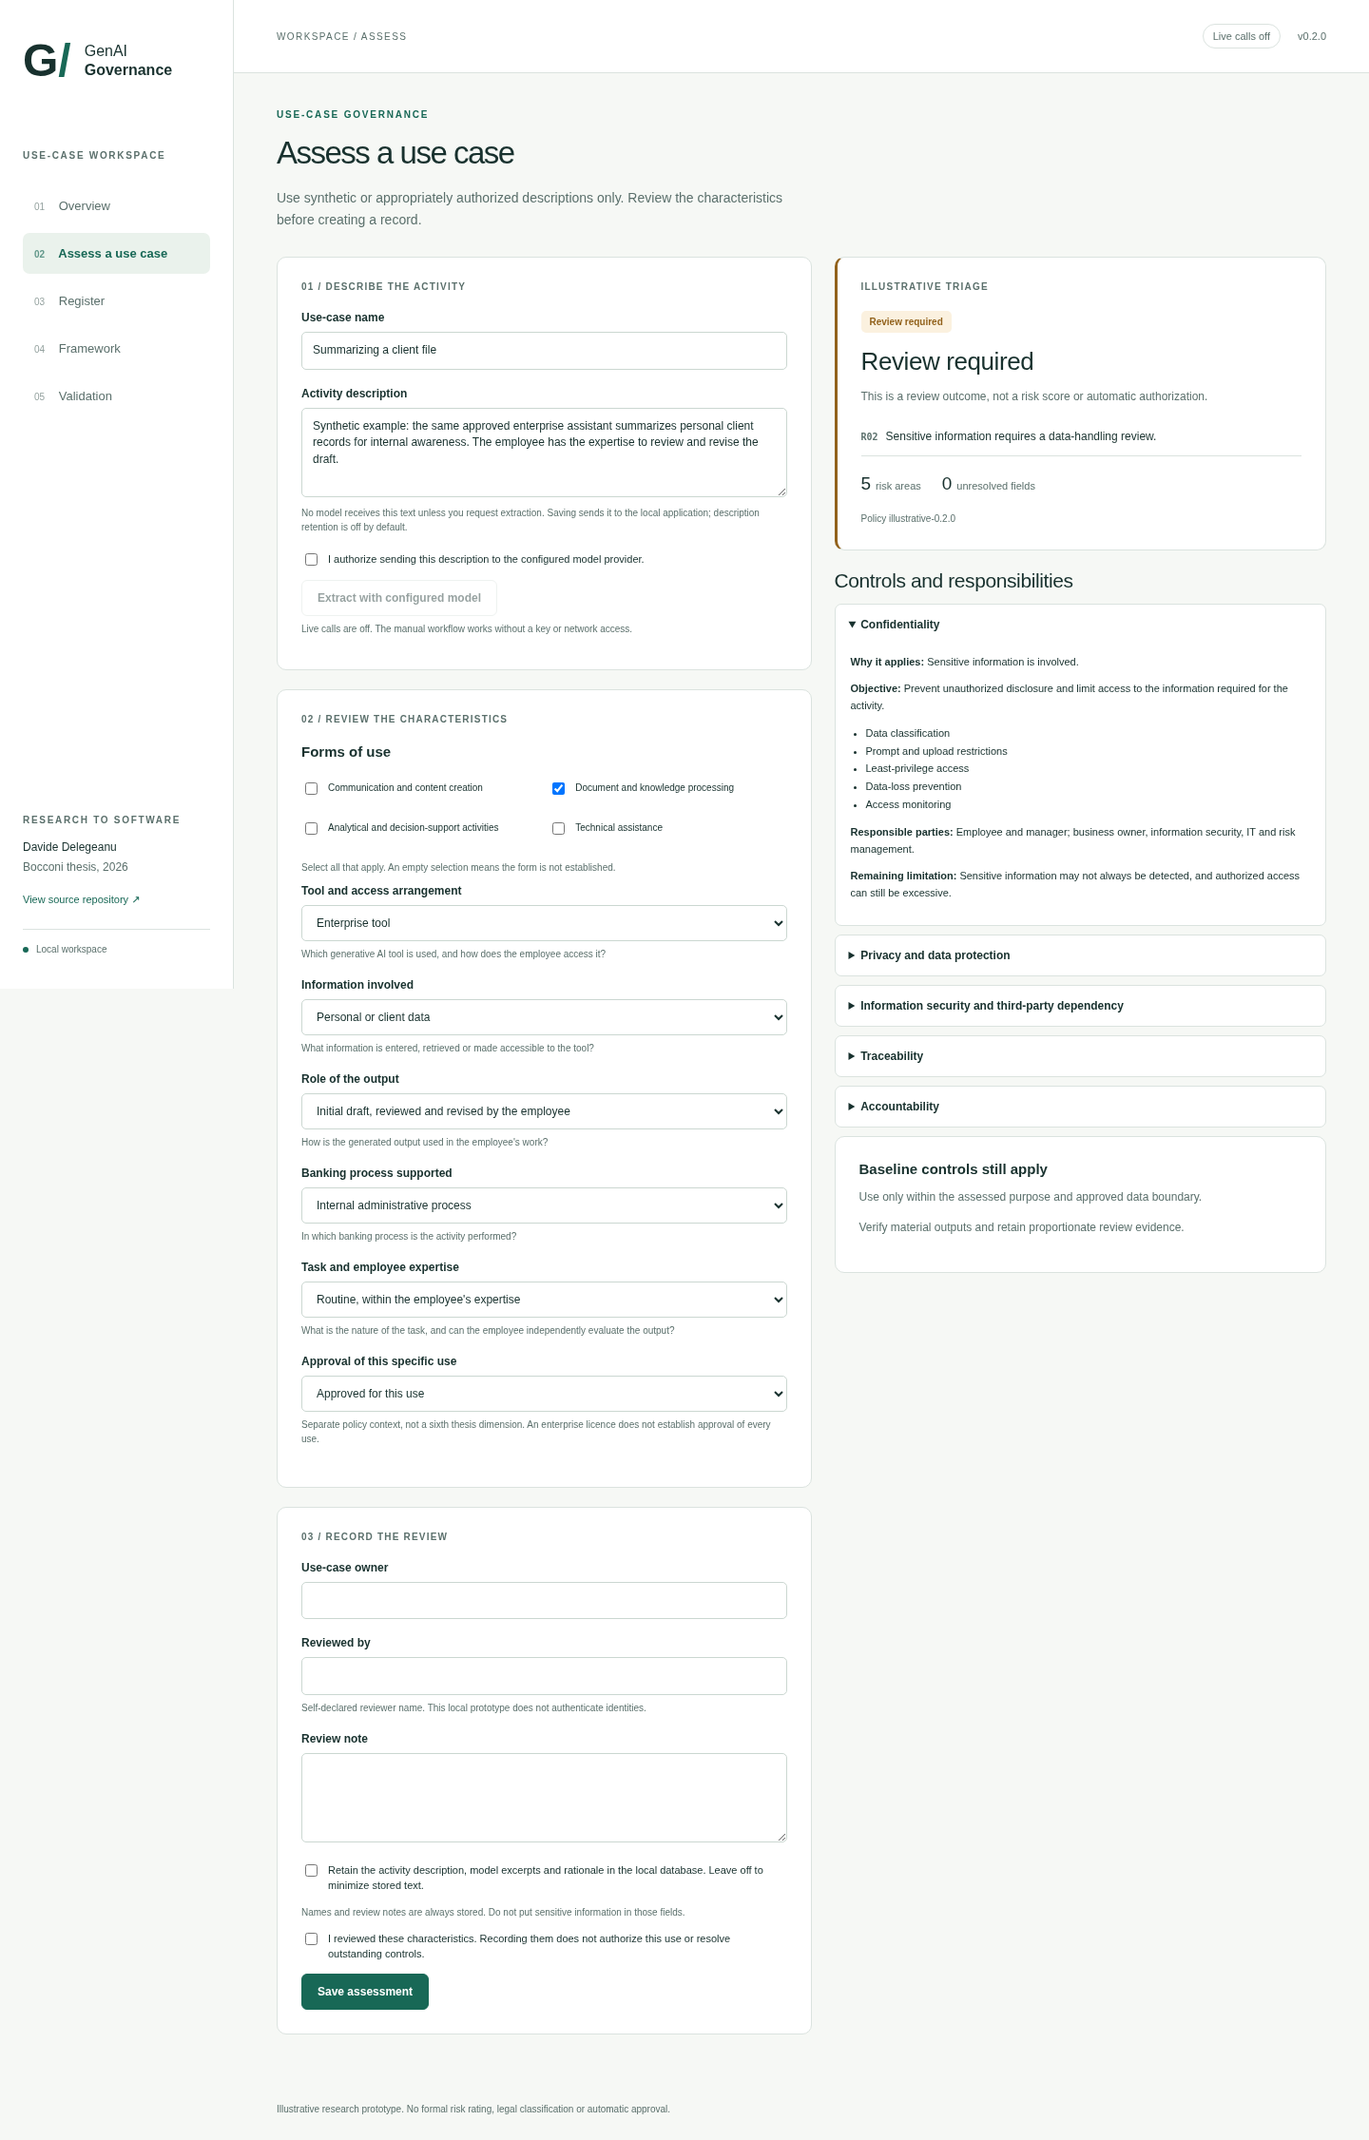
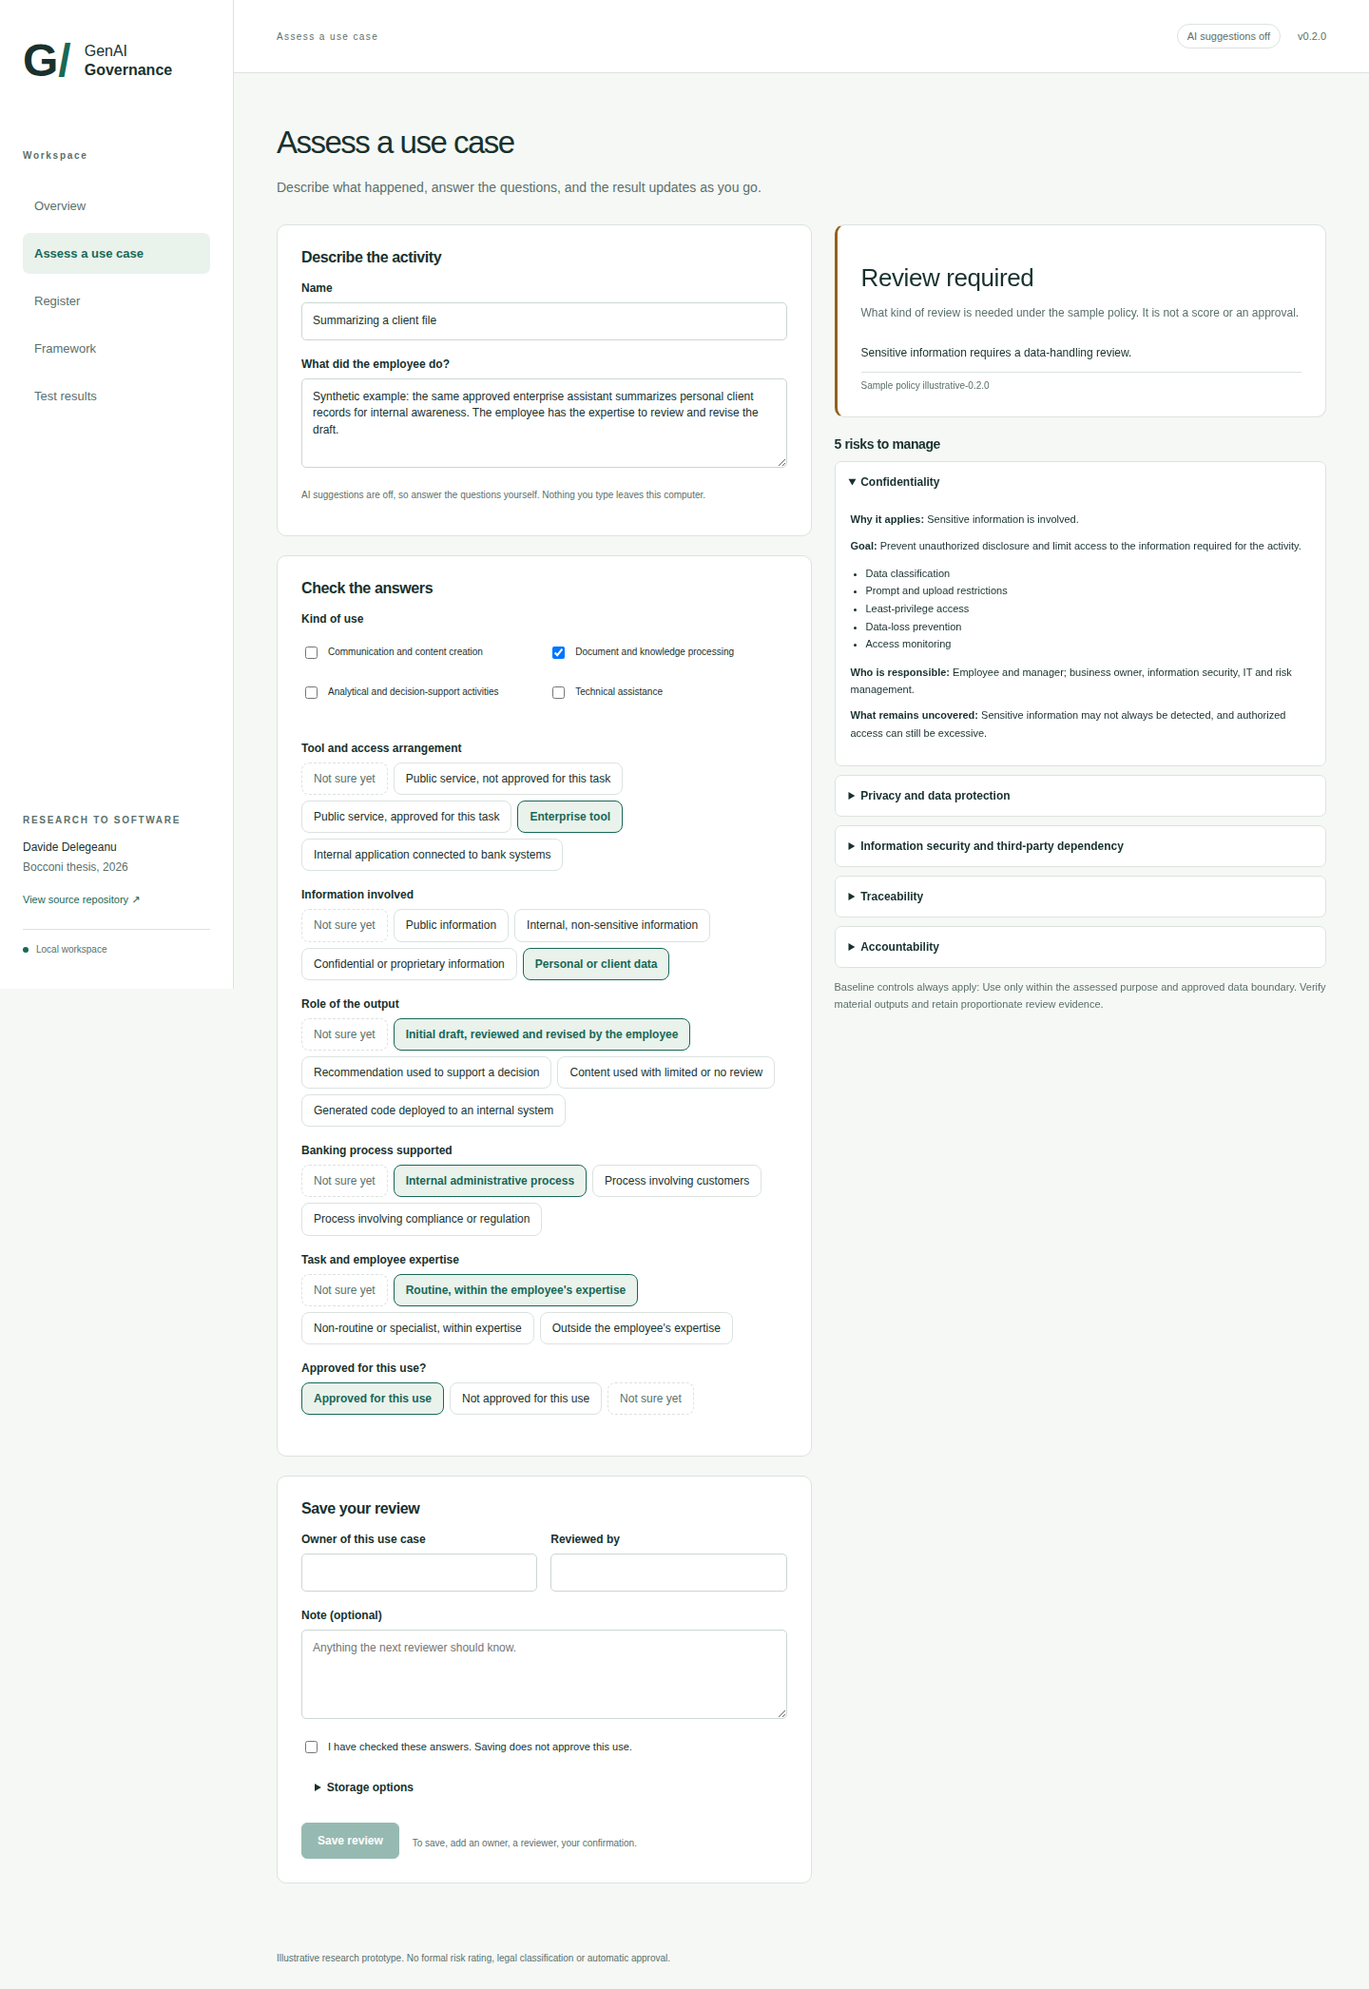
Rewrite the README in first person and add a copyright notice
Describe what the application does and how to run it, explain the model
settings and the daily limit, and refresh the screenshots for the new
interface. State that the code is public to read but all rights are reserved.

diff --git a/README.md b/README.md
@@ -1,126 +1,131 @@
 # GenAI Bank Governance
 
-**A research prototype for reviewing employee AI use, not just approving AI tools.**
+**How should a bank review what employees actually do with generative AI, and not only which tools it approves?**
 
-An independent software extension of Davide Delegeanu's Bocconi bachelor's thesis, *The Use of Generative Artificial Intelligence in Banks: Governance, Risks, and Internal Controls* (2026).
+I looked at this question in my bachelor's thesis at Bocconi, *The Use of Generative Artificial Intelligence in Banks: Governance, Risks, and Internal Controls* (2026). Once the research was done, I wanted to see what the framework would feel like as a working tool. This repository is that experiment.
 
-The workspace describes an employee activity across five dimensions, maps relevant risks to the thesis's controls and responsible functions, and records a human-reviewed assessment. Optional model extraction assists data entry; a separate, inspectable policy determines the illustrative triage outcome.
+You describe what an employee did with an AI tool, answer a few questions about it, and the app shows which risks and controls apply and what kind of review is needed. You can then save the review. A language model can suggest the answers if you turn that on, but it never decides the outcome. A separate, readable set of rules does.
 
-![Workspace overview with a paired public-information and client-information example](docs/images/overview-desktop.png)
+It is a research prototype with made-up examples. It is not a compliance product and it is not meant for real customer information.
 
-## Run locally
+![The overview, with a pair of look-alike examples that get different outcomes](docs/images/overview-desktop.png)
 
-Python 3.10 or newer. The complete manual workflow runs without model credentials.
+## Run it
+
+You need Python 3.10 or newer. Everything except the optional AI suggestions works without an API key or an internet connection.
+
+In a terminal, from the repository folder:
 
 ```bash
 python3 -m venv .venv
 source .venv/bin/activate
-python -m pip install -r requirements-dev.txt
-python -m pytest -q
-python -m eval.run_eval --validate-only
+python -m pip install -r requirements.txt
 python app.py
 ```
 
-Open **http://127.0.0.1:8501**. On Windows, activate the environment with `.venv\Scripts\activate`.
+Then open **http://127.0.0.1:8501**. Press `Ctrl+C` in the terminal to stop it. On Windows, activate the environment with `.venv\Scripts\activate`.
 
-This release uses **FastAPI and a local HTML/CSS/JavaScript interface**, replacing the original Streamlit frontend. The launcher is now `python app.py`, not `streamlit run app.py`. The Python framework, optional provider layer and deterministic policy remain independently usable.
+## What you can do
 
-## What the application does
+1. Start from an empty use case or from one of the made-up examples.
+2. Describe the activity and answer the questions: the kind of use, the tool, the information involved, how the output is used, the banking process, the employee's expertise, and whether this use is approved.
+3. Watch the result on the right update as you answer. It lists the risks, the controls, who is responsible, and why each rule applied.
+4. Save your review with an owner, a reviewer and an optional note.
+5. Come back later and save a new revision. Earlier reviews are never overwritten.
+6. Export everything as JSON or as a CSV summary.
 
-1. Start with a blank use case or a clearly labelled synthetic example.
-2. Enter the known characteristics manually, or explicitly request extraction from a configured model.
-3. Resolve unknowns and correct the classification. Tool approval and approval of this particular use are separate.
-4. Examine triggered rules, relevant controls, responsible functions and remaining limitations.
-5. Record the owner, reviewer and review note. Saving does not grant permission to use a tool.
-6. Create new revisions rather than overwriting assessments. Export the complete history as JSON or a spreadsheet-safe CSV summary.
+The questions follow the five dimensions from my thesis: tool and access, information, role of the output, banking process, and task and expertise. The approval question, the "not sure yet" answers, the outcome rules and the revision history are my additions in the software, not findings of the thesis.
 
-The five thesis dimensions are **tool/access, information, role of output, banking process, and task/employee expertise**. Multiple forms of use can apply. Approval status, explicit unknowns, triage rules and record versions are software extensions, not additional empirical findings of the thesis.
+![Answering the questions while the result stays in view](docs/images/assessment-desktop.png)
 
-### Triage, not a risk score
+## What the outcomes mean
 
-| Outcome | Interpretation |
+The rules live in [`data/policy.json`](data/policy.json). An outcome says what kind of review is needed under those sample rules. It is not a risk score and it is not an approval.
+
+| Outcome | Meaning |
 |---|---|
-| Standard controls | No additional escalation under the illustrative policy; baseline controls still apply. Not approval. |
-| Clarification required | Information needed for assessment is absent. |
-| Review required | At least one explicit review condition applies. Unresolved information may still remain. |
-| Do not proceed | Sensitive information and an explicitly unapproved use trigger a stop recommendation under the sample policy. Not technical enforcement. |
+| Standard controls | Nothing extra is triggered. The baseline controls still apply. |
+| Clarification required | Some answers are missing. |
+| Review required | At least one rule calls for a review. |
+| Do not proceed | A stop rule applies, for example sensitive information in a tool not approved for it. The app only recommends this and does not block anything. |
 
-Policy rules are in [`data/policy.json`](data/policy.json). Each saved revision includes the exact policy, its hash, the applicable control text, the original prediction when available, reviewer corrections and model provenance. Historical records are not recalculated when a policy changes.
+Each saved review keeps the policy version and the reasons behind its result, so changing the policy later does not rewrite old records.
 
-![Assessment showing rule explanations, uncertainty and control responsibilities](docs/images/assessment-desktop.png)
+![The register of saved reviews](docs/images/register-desktop.png)
 
-## Optional model extraction
+## Optional: AI suggestions
+
+If you would like a model to suggest the answers from your description, install the extra dependencies:
 
 ```bash
 python -m pip install -r requirements-llm.txt
 ```
 
-Create a local `.env` by copying `.env.example` **only when you do not already have a `.env`**. Set:
+Then copy `.env.example` to `.env` (only if you do not have a `.env` yet) and fill in four things: turn the feature on, pick a provider, pick a model, and add that provider's API key. For example:
 
 ```dotenv
 ENABLE_LIVE_CLASSIFICATION=1
-LLM_PROVIDER=anthropic
-LLM_MODEL=your-account-model-identifier
-ANTHROPIC_API_KEY=your-local-key
+LLM_PROVIDER=openai
+LLM_MODEL=the-model-name-from-your-provider-account
+OPENAI_API_KEY=your-key
 ```
 
-Supported adapter choices are `anthropic`, `openai`, `grok` and `gemini`; use the corresponding key name from `.env.example`. Choose a model that supports the selected text endpoint. No model availability, cost or accuracy is implied. Restart the app after editing configuration.
+`LLM_PROVIDER` can be `openai`, `anthropic`, `gemini` or `grok`. There is no default model, because model names change often and depend on your account. Use one your provider lists. Restart the app after editing `.env`.
 
-Extraction requires explicit confirmation in the interface before a description is sent to the provider. JSON/schema validation catches malformed output, not all semantic errors or prompt injection. Exact evidence excerpts aid review; they are not proof that an inferred category is true. Models can return unknown values, and reviewers can correct fields before saving.
+With this on, the header shows "AI suggestions on" and the assessment page names the provider and model. Nothing is sent until you tick the confirmation box and press the button. Please do not send real client information.
 
-The workspace caps daily classification operations at 30. An operation can contain up to three provider attempts; this is not a monetary spending cap. SDK retries are disabled to avoid multiplying retries. Individual requests have a 25-second timeout. See [architecture and provider notes](docs/ARCHITECTURE.md).
+A suggestion can be wrong even when it is well formed, so check every answer before saving.
 
-## Verification
+### Daily limit
 
-This release was checked locally with **113 passing Python tests**. One test enumerates **1,440 valid combinations** to check policy invariants. These are not 1,440 model evaluations.
+To guard against running up charges by accident, the app allows 30 AI suggestions per day (UTC). I picked 30 as a round number that is plenty for trying it out. It is not a cost cap and it does not limit manual assessments. Change it in `.env`:
 
-The evaluation dataset contains **64 synthetic prompts representing 24 semantic scenarios**. Several prompts are correlated wording variants; labels are not independently adjudicated by banking experts. No live-model accuracy is published or implied.
+```dotenv
+DAILY_CLASSIFICATION_LIMIT=30
+```
+
+Use `0` for no limit. One suggestion can involve up to three requests to the provider if the first ones fail, so check your provider's pricing. Each request times out after 25 seconds. More detail is in the [architecture notes](docs/ARCHITECTURE.md).
+
+## What I tested, and what I did not
+
+There are 128 automated tests covering the rules, the API, the saved revisions and the exports. One of them walks through all 1,440 valid combinations of answers to check that the rules behave consistently. That is a check on the rules, not an evaluation of any model.
+
+There is also a set of 64 made-up descriptions covering 24 scenarios, for comparing model suggestions with the expected answers. I wrote the labels myself and no bank professional has reviewed them, so I do not claim any accuracy for a live model or any effect in a real bank.
+
+To run the checks without contacting a provider:
 
 ```bash
+python -m pip install -r requirements-dev.txt
 python -m pytest -q
 python -m eval.run_eval --validate-only
-# Explicitly configured, billable model evaluation:
+```
+
+To run the billable model evaluation, after configuring a provider and model:
+
+```bash
 python -m eval.run_eval --live --split holdout --output eval/results/holdout-run-01.json
 ```
 
-The live evaluator includes failures in attempted-case denominators and compares outcomes against independently specified sample-policy expectations. Existing report files are never overwritten. Published reports must retain their model, dataset and policy metadata.
+More in the [verification record](docs/VERIFICATION.md), the [dataset card](docs/DATASET_CARD.md) and the [policy table](docs/POLICY.md).
 
-See the [verification record](docs/VERIFICATION.md), [dataset card](docs/DATASET_CARD.md) and [policy decision table](docs/POLICY.md).
+## Privacy and limits
 
-## Privacy and deployment boundaries
+Run it only on your own computer, with made-up or properly authorized data. Records go into a local SQLite file. The description text and model excerpts are not stored unless you choose to keep them, but names, owners, reviewers and notes always are, so keep sensitive details out of those too.
 
-**Local, single-user research prototype. Do not deploy this publicly or enter real banking/customer data.**
+There is no login, no encryption of the saved file and no tamper-proof history, and nothing here replaces a real approval process. See [privacy notes](docs/PRIVACY.md).
 
-The database is local SQLite. Descriptions, model excerpts and rationales are not persisted unless explicitly selected; record names, owner/reviewer fields and notes are always stored. Pending model classifications remain in process memory until expiry cleanup, eviction or shutdown. Do not place secrets in any field.
+There is also an optional hook for the AI coding assistant that records only that a prompt was sent (no prompt text). It cannot block anything. If you installed an earlier version of that plugin, disable it first.
 
-There is no authenticated reviewer identity, encryption at rest, tamper-proof log, legal classification or enterprise approval workflow. A database record does not prove that a control operated. Local origin/token checks are defense in depth, not a substitute for authentication.
+## How it is built
 
-The optional prompt hook is **metadata-only, opt-in and retrospective**. It makes no classification call and cannot prevent a submitted prompt. The previous raw-prompt auto-classification hook has been removed. Updating source does not unload an already installed old plugin: disable the old installation before testing the replacement. See [privacy and hook migration](docs/PRIVACY.md).
+The backend is Python with FastAPI, and the interface is plain HTML, CSS and JavaScript with no build step. Reviews are stored in SQLite, the rules are in `data/policy.json`, and the tests use pytest. The way the thesis maps to the code is in [RESEARCH_MAPPING.md](docs/RESEARCH_MAPPING.md), and [DEMO.md](docs/DEMO.md) is a short walkthrough.
 
-![Saved synthetic assessments in the local register](docs/images/register-desktop.png)
+## Reference
 
-## Project structure
+Delegeanu, D. (2026). *The Use of Generative Artificial Intelligence in Banks: Governance, Risks, and Internal Controls*. Bocconi University. The thesis is a literature-based analysis, not a validation against real bank data. Nothing here claims compliance with the AI Act, GDPR, DORA or any other regulation, and the controls and rules are illustrative.
 
-```text
-app.py                 Local HTTP application and boundary checks
-web/                   Responsive browser interface
-schema.py              Classification contract and explicit unknown values
-data/framework.py      Thesis taxonomy, controls and illustrative examples
-data/policy.json       Versioned, declarative triage rules
-classifier.py          Model extraction and output validation
-providers.py           Optional provider adapters and bounded retries
-mapper.py              Explainable risk/control mapping and triage
-storage.py             Local revision records and CSV/JSON export
-eval/                  Synthetic benchmark and reporting
-tests/                 Offline regression and integration checks
-claude-plugin/         Optional metadata-only prompt-event hook
-scripts/               Release hygiene and isolated UI verification
-```
+## Copyright
 
-## Research basis
+Copyright © 2026 Davide Delegeanu. All rights reserved.
 
-Delegeanu, D. (2026). *The Use of Generative Artificial Intelligence in Banks: Governance, Risks, and Internal Controls*. Bocconi University. Sections 3.2-3.3 define the forms and dimensions; Sections 5.2-5.6 connect use cases, controls and responsibilities. The thesis is a literature-based analytical synthesis, not empirical validation using bank workflows.
-
-This repository does not assert compliance with the AI Act, GDPR, DORA or any other legal framework. The controls and policy are illustrative. An organization would need to define its own acceptable uses, review requirements and risk acceptance.
-
-[Research-to-software mapping](docs/RESEARCH_MAPPING.md) · [Demonstration script](docs/DEMO.md) · [Change log](CHANGELOG.md)
+This repository is public so it can be read, but it is not open source. No licence is granted to copy, modify, redistribute or use the code commercially without my written permission, apart from what the law and GitHub's Terms of Service allow, such as viewing and forking on GitHub. If you would like to use or build on it, please get in touch.

diff --git a/docs/ARCHITECTURE.md b/docs/ARCHITECTURE.md
@@ -38,7 +38,7 @@ Sampling uses provider defaults; it is not claimed deterministic. Response and r
 
 ## Interface decision
 
-The earlier Streamlit UI was replaced with a small, dependency-light FastAPI backend and ordinary browser assets. This gives direct control over the reading order, review workflow, responsive layout and API-level tests without introducing a frontend build system. The tradeoff is maintaining explicit HTTP routes and browser state instead of Streamlit reruns.
+The interface is a small, dependency-light FastAPI backend and ordinary browser assets. This gives direct control over the reading order, review workflow, responsive layout and API-level tests without introducing a frontend build system. The tradeoff is maintaining explicit HTTP routes and browser state.
 
 No Node build is required. Python 3.10+ is required by the type syntax. The release was executed locally under Python 3.13; the included CI matrix targets 3.10 and 3.12 but has not been run remotely for this release.
 
